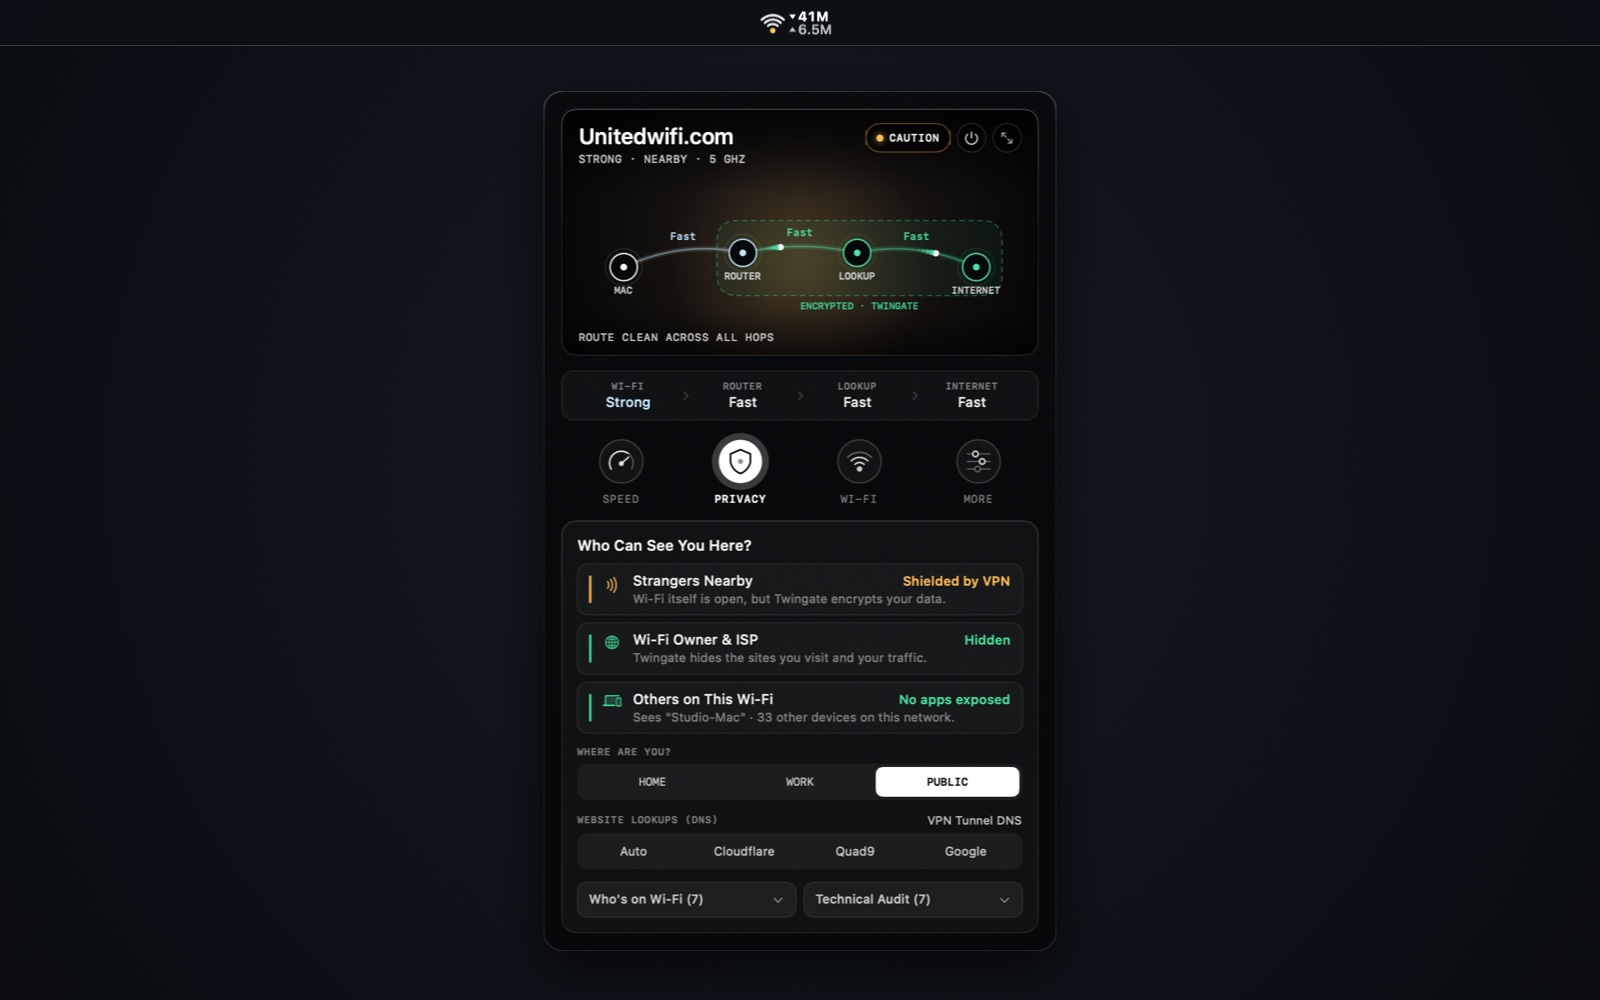
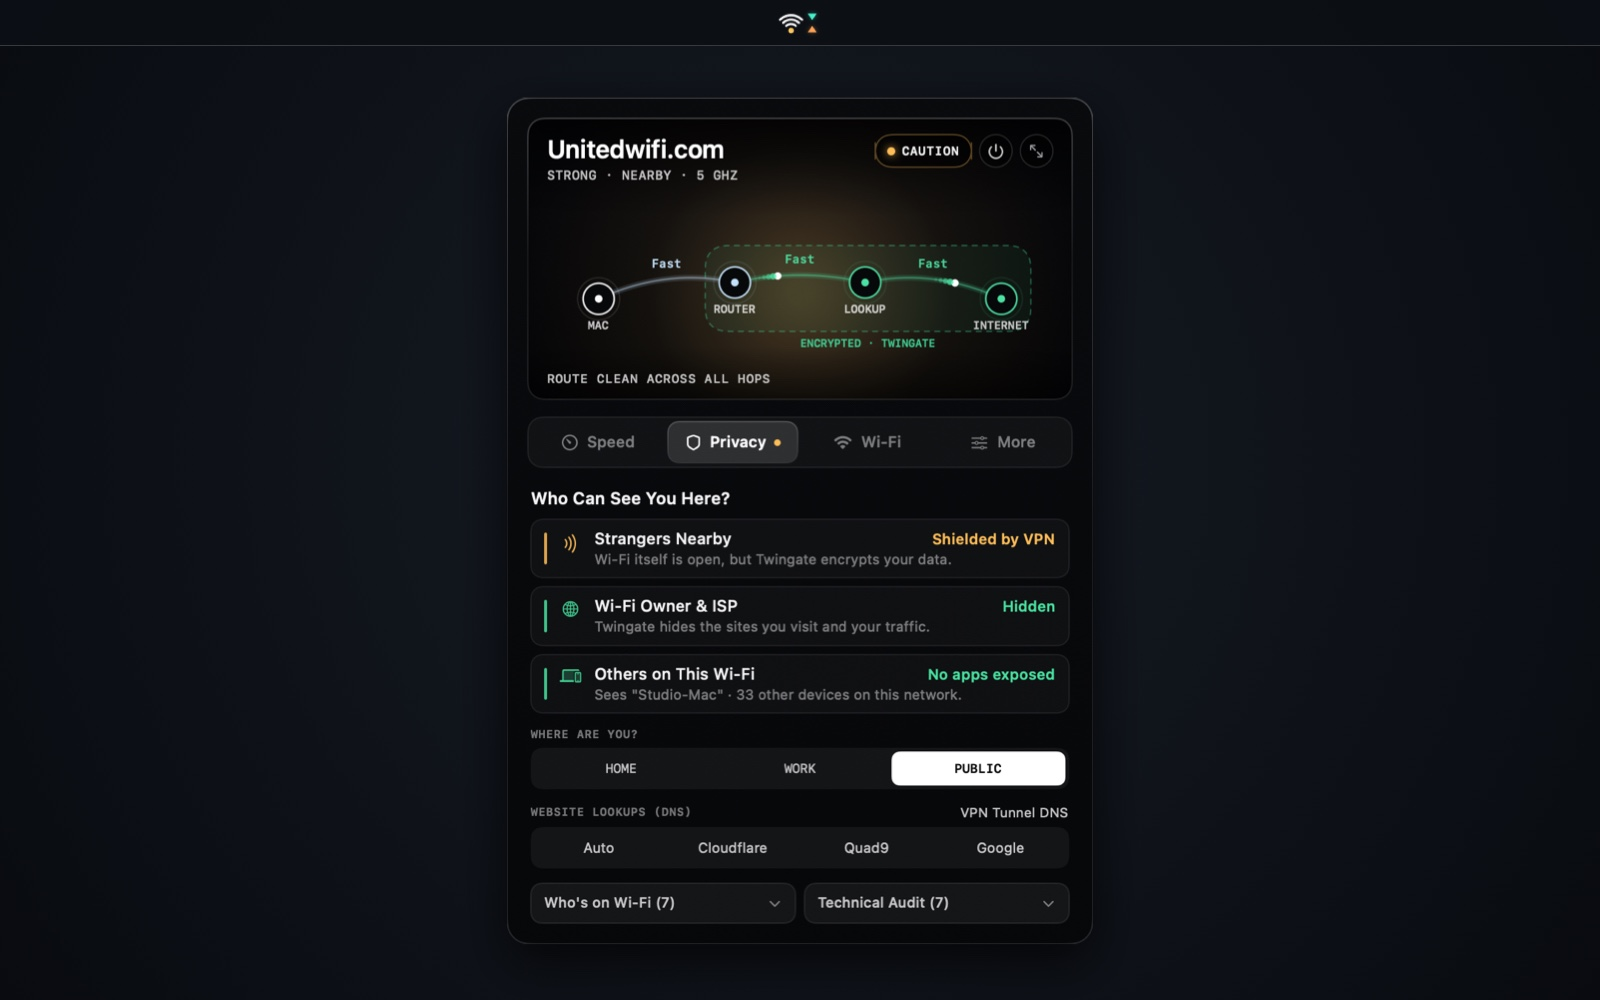
docs: refresh README and screenshots for 28pt color arrows, parent-grouped processes, active interfaces & Studio connections

diff --git a/README.md b/README.md
@@ -1,6 +1,6 @@
 # Aether
 
-**Aether** is a native macOS menu bar Wi-Fi instrument built to replace Apple’s default Wi-Fi menu. Zero subscriptions, zero Electron, zero third-party packages — a **2.9 MB** Swift 6 + SwiftUI + AppKit app (`0.0%` idle CPU) that brings live throughput, radio physics, channel spectrum analysis, multi-hop latency/jitter, LAN discovery, and privacy posture into one quiet obsidian panel.
+**Aether** is a native macOS menu bar Wi-Fi instrument built to replace Apple’s default Wi-Fi menu. Zero subscriptions, zero Electron, zero third-party packages — a **3.1 MB** Swift 6 + SwiftUI + AppKit app (`0.0%` idle CPU) that brings live throughput, parent-grouped app bandwidth with real macOS icons, active interfaces, radio physics, channel spectrum analysis, multi-hop latency/jitter, LAN discovery, outbound connections, and privacy posture into one quiet obsidian panel.
 
 **Website & live preview:** [strangechances.com/aether](https://strangechances.com/aether/)
 
@@ -27,12 +27,12 @@ Until now, answering those questions on macOS meant juggling six separate paid u
 | Menu Bar & Speed (`FLUX`) | Public Wi-Fi Privacy (`ROUTE`) |
 | :---: | :---: |
 | ![Menu Bar & Speed](docs/hero-menubar.jpg) | ![Public Wi-Fi Privacy](docs/vis-privacy.jpg) |
-| Live harmonic silk ribbons (`↓ / ↑`), 4-step health chain (`Wi-Fi › Router › Lookup › Internet`), activity readiness (Video Calls, 4K Video, Live & Games), measured RF physics insights, bufferbloat speed test, and active bandwidth hogs. | Plain-English *"Who Can See You Here?"* breakdown (Strangers Nearby, Wi-Fi Owner & ISP, Others on This Wi-Fi), curved Bézier 4-hop route with frosted VPN shield, auto-`PUBLIC` trust zone detection on open or crowded Wi-Fi, and 1-click DNS switching. |
+| Live harmonic silk ribbons (`↓ / ↑`), fixed-width `28pt` menu bar icon with color-coded `▾ / ▴` speed arrows (zero bar shifting), 4-step health chain, `Download / Upload` + `Received / Sent / Peak`, active `Wi-Fi` & `VPN` interfaces, parent-grouped `Processes` with real macOS app icons, activity readiness, and bufferbloat speed test. | Plain-English *"Who Can See You Here?"* breakdown (Strangers Nearby, Wi-Fi Owner & ISP, Others on This Wi-Fi), curved Bézier 4-hop route with frosted VPN shield, auto-`PUBLIC` trust zone detection on open or crowded Wi-Fi, and 1-click DNS switching. |
 
 | RF Channel Spectrum & Roaming (`SPECTRUM`) | Aether Studio Workstation (`⌘E`) |
 | :---: | :---: |
 | ![RF Channel Spectrum](docs/vis-spectrum.jpg) | ![Aether Studio](docs/vis-studio.jpg) |
-| Dual-pass Gaussian channel overlap across 2.4 / 5 / 6 GHz, cleaner-channel recommendations, sticky-client 5 GHz roaming nudges, Touch ID Wi-Fi Share QR code, and 1-click VPN toggles. | Expandable obsidian workstation combining a 6-cell RF physics & socket X-Ray bar (nanowatts, linear SNR multiplier, path-loss distance, half-duplex TCP ceiling, `awdl0` AirDrop radio, native IPv6), full channel spectrum, interactive hover-crosshair latency/jitter/loss timeline, OUI + mDNS LAN device table, and automatic connection event log. |
+| Dual-pass Gaussian channel overlap across 2.4 / 5 / 6 GHz, cleaner-channel recommendations, sticky-client 5 GHz roaming nudges, Touch ID Wi-Fi Share QR code, and 1-click VPN toggles. | Expandable obsidian workstation combining a 6-cell RF physics & socket X-Ray bar (nanowatts, linear SNR multiplier, path-loss distance, half-duplex TCP ceiling, `awdl0` AirDrop radio, native IPv6), full channel spectrum, interactive hover-crosshair latency/jitter/loss timeline, OUI + mDNS LAN devices, live per-app outbound connections, and automatic event log. |
 
 <p align="center">
   <img src="docs/vis-disconnected.jpg" alt="Aether Disconnected-First Wi-Fi Picker" width="82%">
@@ -68,7 +68,8 @@ Aether is pure **Swift 6** with **zero external dependencies**, split into a det
 ```
 Sources/
 ├── AetherCore/                     # Pure Swift 6 telemetry, RF physics & audit engine (zero UI)
-│   ├── InterfaceCounters.swift     # Zero-subprocess POSIX getifaddrs: throughput, real AF_LINK MAC, awdl0, IPv6
+│   ├── InterfaceCounters.swift     # Zero-subprocess getifaddrs: live bytes, Peak, active interfaces, MAC, awdl0, IPv6
+│   ├── AppAttribution.swift        # Pure-Darwin proc_pidpath parent `.app` rollup & service port catalog
 │   ├── NativeNetworkTelemetry.swift# In-process SCDynamicStore, SCNetworkConnection, sysctl ARP, SOCK_DGRAM ICMP
 │   ├── WiFiController.swift        # CoreWLAN + CoreLocation radio snapshots, scans, roaming & association
 │   ├── ChannelAnalyzer.swift       # 2.4/5/6 GHz overlap scoring, channel recommendation & sticky-client detector
@@ -78,18 +79,18 @@ Sources/
 │   ├── TrustStore.swift            # Per-network trust zones (auto-PUBLIC on open/crowded Wi-Fi) & gateway pinning
 │   ├── HumanSummary.swift          # Plain-English activity readiness, 3-actor privacy story & live RF insights
 │   ├── OUIVendorLookup.swift       # Compact offline IEEE OUI vendor lookup
-│   ├── NetworkProbes.swift         # Async timeout-bounded probes, captive portal check & direct-build power tools
+│   ├── NetworkProbes.swift         # Async timeout-bounded probes, 1s nettop delta, captive portal & direct tools
 │   └── MenuBarPositioner.swift     # Notch-safe floating panel geometry
 └── Aether/                         # Native AppKit + SwiftUI menu bar & Studio app
     ├── App/
-    │   ├── AppDelegate.swift       # Borderless notch-safe NSPanel, global shortcuts & right-click menu
+    │   ├── AppDelegate.swift       # Fixed-width 396pt notch-safe NSPanel, global shortcuts & right-click menu
     │   └── AppState.swift          # Reactive state engine (0.0% idle CPU when closed)
     └── UI/
-        ├── MenuBarIconView.swift   # Compact 22pt / 52pt geometric 3-arc emblem + trust dot + speed stack
+        ├── MenuBarIconView.swift   # Fixed-width 22pt (Icon) / 28pt (Color Arrows) / 50pt (Speed) emblem
+        ├── AppIconCache.swift      # Cached macOS .app icons & monochrome daemon/CLI badges
         ├── InstrumentStageView.swift# FLUX ribbons, Gaussian SPECTRUM & curved Bézier ROUTE circuit
-        ├── AetherGlyphs.swift      # Four circular geometric mode emblems
-        ├── PopoverView.swift       # Connected instrument & disconnected-first Wi-Fi picker
-        ├── StudioWindowController.swift # Resizable Aether Studio workstation (⌘E)
+        ├── PopoverView.swift       # Single-shell obsidian instrument & disconnected-first Wi-Fi picker
+        ├── StudioWindowController.swift # Resizable Aether Studio workstation (⌘E) with LAN & Connections views
         └── QRCodeView.swift        # Scannable Wi-Fi Share QR card
 ```
 
